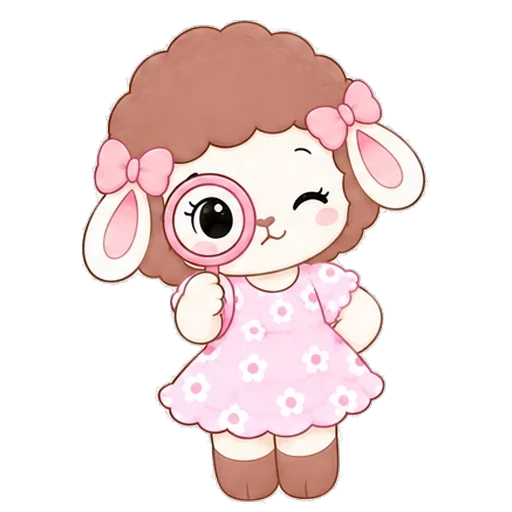
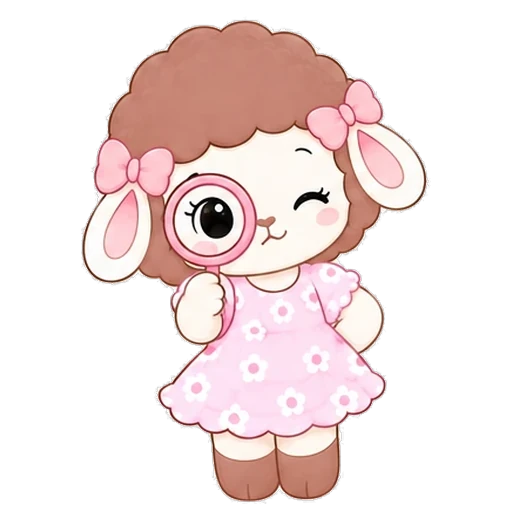
Cuento: poses de Rosina corregidas (diploma, idea, fin de misión 1), equipo parejo, lana ideal con ovillo, espacio para el botón de música (#320)
Claude-Session: https://claude.ai/code/session_01U9SAsfVct6L94yoocG63si

diff --git a/aventuras-de-rosina/js/dibujos.js b/aventuras-de-rosina/js/dibujos.js
@@ -3,7 +3,7 @@
 // Rosina NO se dibuja aquí: usa las imágenes oficiales de /img/stickers/; los amigos, las poses de /img/aventuras/plano/ (ver personajes.js).
 // Para reemplazar un dibujo por una imagen o un video final, ver herramientas/aventuras-de-rosina/LEEME.md (sección "Cambiar dibujos por fotos o videos").
 
-import { POSES_PLANO } from '../contenido/personajes.js?v=11';
+import { POSES_PLANO } from '../contenido/personajes.js?v=16';
 
 const HA = '#cc1786';   // hilo, borde (fucsia de marca)
 const HB = '#ff66c4';   // hilo, relleno (rosa de marca)
@@ -143,14 +143,11 @@ const PINTORES = {
     ${texto(176, 160, 'jala por los 2 bucles', 15, 'start')}${flecha('M170,152 L126,116')}
     ${texto(160, 44, 'queda 1 bucle', 15)}`),
 
-  // Tres ovillos con la imagen real del ovillo: gruesa y clara (la ideal), fina y oscura, y peluda que esconde las puntadas.
+  // Solo la lana ideal (gruesa y clara) usa la imagen del ovillo; la fina y la peluda conservan su dibujo.
   muestraLana: (p) => {
-    const f = (id, m) => `<defs><filter id="${id}" color-interpolation-filters="sRGB"><feColorMatrix type="matrix" values="${m}"/></filter></defs>`;
-    const tinta = (id, nombre, x, y, w, h) => `<image href="${IMP}${nombre}.webp" x="${x}" y="${y}" width="${w}" height="${h}" preserveAspectRatio="xMidYMid meet" filter="url(#${id})"/>`;
     if (p.variante === 'gruesa') return svg(`${imagen('ovillo', 28, 12, 150, 164)}${hilo('M158,150 C196,176 224,120 262,146', 13, HA, '#FFC6E2')}`, '0 0 300 200');
-    if (p.variante === 'fina') return svg(`${f('lf', '.22 .22 .22 0 0  .2 .2 .2 0 0  .22 .22 .24 0 .03  0 0 0 1 0')}${tinta('lf', 'ovillo', 52, 46, 104, 114)}${hilo('M150,140 C176,128 192,160 220,144 S250,136 276,146', 2.5, '#2b2430', '#5b4a60')}`, '0 0 300 200');
-    const pelos = Array.from({ length: 44 }, (_, i) => { const a = (i / 44) * Math.PI * 2, rx = 52, ry = 58; return `<path d="M${100 + Math.cos(a) * rx},${100 + Math.sin(a) * ry} l${Math.cos(a) * 15},${Math.sin(a) * 15}" stroke="#b9779d" stroke-width="3" stroke-linecap="round"/>`; }).join('');
-    return svg(`${f('lp', '.85 .1 .1 0 0  .1 .6 .2 0 0  .3 .2 .8 0 0  0 0 0 1 0')}${pelos}${tinta('lp', 'ovillo', 38, 28, 124, 136)}${hilo('M164,144 C192,128 212,164 242,144 S266,134 286,146', 12, '#b86f97', '#e29ac0')}`, '0 0 300 200');
+    if (p.variante === 'fina') return svg(`<circle cx="100" cy="100" r="40" fill="#4a3a4f" stroke="#2b2430" stroke-width="3"/>${[0, 1, 2, 3, 4, 5].map((i) => `<path d="M${64 + i * 4},${84 + i * 8} q36,-14 ${72 - i * 8},2" fill="none" stroke="#7d6a82" stroke-width="1.5"/>`).join('')}${hilo('M140,124 C170,108 190,150 220,128 S250,118 276,130', 2.5, '#2b2430', '#5b4a60')}`, '0 0 300 200');
+    return svg(`<circle cx="100" cy="100" r="50" fill="#e29ac0" stroke="#b86f97" stroke-width="3"/>${Array.from({ length: 36 }, (_, i) => { const a = (i / 36) * Math.PI * 2; return `<path d="M${100 + Math.cos(a) * 46},${100 + Math.sin(a) * 46} l${Math.cos(a) * 16},${Math.sin(a) * 16}" stroke="#b86f97" stroke-width="3" stroke-linecap="round"/>`; }).join('')}${hilo('M156,128 C186,112 206,150 236,128 S262,118 282,130', 12, '#b86f97', '#e29ac0')}`, '0 0 300 200');
   },
 
   nudoSolo: () => svg(`${hilo('M70,120 C90,40 170,50 150,110 C130,170 60,130 120,80 C180,30 250,90 200,130 C160,160 120,130 160,100', 7)}${hilo('M60,150 C30,170 40,190 80,186 M200,140 C240,160 270,150 280,176', 7)}`),

diff --git a/aventuras-de-rosina/js/app.js b/aventuras-de-rosina/js/app.js
@@ -3,14 +3,14 @@
 // Privacidad: no hay cuentas, ni cookies, ni analítica, ni peticiones a servidores. Todo vive en este navegador (ver estado.js).
 // Para cambiar textos o añadir capítulos NO hay que tocar este archivo: ver contenido/misiones.js y herramientas/aventuras-de-rosina/LEEME.md.
 
-import { MISIONES, FUTUROS, LOGROS } from '../contenido/misiones.js?v=11';
-import { PERSONAJES, POSES_ROSINA, AMIGOS, PALETA } from '../contenido/personajes.js?v=11';
-import { personaje, dibujo, mapaFondo } from './dibujos.js?v=11';
-import { jugar, miniBosque } from './juegos.js?v=11';
-import * as E from './estado.js?v=11';
-import * as voz from './voz.js?v=11';
-import * as musica from './musica.js?v=11';
-import { pers, sinNombre } from './nombre.js?v=11';
+import { MISIONES, FUTUROS, LOGROS } from '../contenido/misiones.js?v=16';
+import { PERSONAJES, POSES_ROSINA, AMIGOS, PALETA } from '../contenido/personajes.js?v=16';
+import { personaje, dibujo, mapaFondo } from './dibujos.js?v=16';
+import { jugar, miniBosque } from './juegos.js?v=16';
+import * as E from './estado.js?v=16';
+import * as voz from './voz.js?v=16';
+import * as musica from './musica.js?v=16';
+import { pers, sinNombre } from './nombre.js?v=16';
 
 // Título del libro (Libro 1 de «Rosina y el Bosque Tejido», que es el nombre del mundo y del mapa).
 const TITULO_LIBRO = 'Rosina y la gran aventura de la primera cadeneta';
@@ -76,10 +76,10 @@ const botonVoz = () => (vozListo ? '<button type="button" class="btn-voz" data-a
 const fig = (def, alt) => `<figure class="paso-fig"><div class="paso-dib">${dibujo(def)}</div><figcaption class="paso-alt">${esc(alt)} <span class="provisional">Dibujo de ayuda (provisional)</span></figcaption></figure>`;
 // Rosina en las escenas del libro: los stickers oficiales (varias poses). alt '' la marca como decorativa.
 const ALT_ROSINA = {
-  saludo: 'Rosina, la ovejita guía de Lana Rosa, saluda con la patita.', feliz: 'Rosina sonríe feliz.', idea: 'Rosina tiene una idea.',
+  saludo: 'Rosina, la ovejita guía de Lana Rosa, saluda con la patita.', feliz: 'Rosina sonríe feliz.', idea: 'Rosina mira con una lupa.',
   leyendo: 'Rosina lee un libro rosado.', corazon: 'Rosina sonríe con un corazón rosado.', sentada: 'Rosina sentada abraza un ovillo en forma de corazón.',
   cartel: 'Rosina asoma detrás de un cartel rosado.', animo: 'Rosina levanta el pulgar para animarte.', abrazo: 'Rosina abraza un ovillo en forma de corazón.',
-  ovillo: 'Rosina sostiene un ovillo en forma de corazón.', saludoSentada: 'Rosina, sentada, saluda con la patita.', flor: 'Rosina sostiene una flor.', gorro: 'Rosina lleva un gorro rosado.',
+  ovillo: 'Rosina sostiene un ovillo en forma de corazón.', saludoSentada: 'Rosina señala con la patita.', flor: 'Rosina sostiene una flor.', gorro: 'Rosina lleva un gorro rosado.',
   tejiendo: 'Rosina teje una cadeneta con su gancho y lana rosada.', gancho: 'Rosina muestra su gancho de crochet y un ovillo de lana.',
   contando: 'Rosina cuenta con los dedos.', senalando: 'Rosina señala hacia un lado.', fuerza: 'Rosina levanta los puños para darte ánimo.',
   sorpresa: 'Rosina se sorprende con las manos en las mejillas.', consuelo: 'Rosina te consuela con una sonrisa suave.',

diff --git a/aventuras-de-rosina/contenido/personajes.js b/aventuras-de-rosina/contenido/personajes.js
@@ -9,14 +9,14 @@ export const POSES_ROSINA = {
   ovillo: '/img/aventuras/rosina-plana/rosina-03-ovillo-corazon.webp',
   flor: '/img/aventuras/rosina-plana/rosina-04-flor.webp',
   sentada: '/img/aventuras/rosina-plana/rosina-05-ovillo-sentada.webp',
-  idea: '/img/aventuras/rosina-plana/rosina-06-idea.webp',
+  idea: '/img/aventuras/rosina-plana/lupa.webp',
   leyendo: '/img/aventuras/rosina-plana/rosina-07-leyendo.webp',
-  feliz: '/img/aventuras/rosina-plana/rosina-08-feliz.webp',
+  feliz: '/img/aventuras/rosina-plana/rosina-02-corazon.webp',
   cartel: '/img/aventuras/rosina-plana/rosina-09-cartel.webp',
   animo: '/img/aventuras/rosina-plana/rosina-12-pulgar-arriba.webp',
   gorro: '/img/aventuras/rosina-plana/rosina-17-gorro.webp',
   abrazo: '/img/aventuras/rosina-plana/rosina-18-ovillo-abrazo.webp',
-  saludoSentada: '/img/aventuras/rosina-plana/rosina-20-sentada-saludo.webp',
+  saludoSentada: '/img/aventuras/rosina-plana/senalando.webp',
   // Poses NUEVAS para el libro (hoja de Sara del 12-oct-2026, con el mismo borde de sticker; las crea preparar_rosina_poses.py)
   tejiendo: '/img/aventuras/rosina-plana/tejiendo.webp', gancho: '/img/aventuras/rosina-plana/gancho.webp', contando: '/img/aventuras/rosina-plana/contando.webp',
   senalando: '/img/aventuras/rosina-plana/senalando.webp', fuerza: '/img/aventuras/rosina-plana/fuerza.webp', sorpresa: '/img/aventuras/rosina-plana/sorpresa.webp',

diff --git a/aventuras-de-rosina/aventura.css b/aventuras-de-rosina/aventura.css
@@ -372,3 +372,10 @@ h1[tabindex="-1"]:focus, h2[tabindex="-1"]:focus, main:focus { outline: none; }
 /* Rosina al mismo tamaño que sus amigos en las historias (su imagen cuadrada tiene aire a los lados) */
 .historia-arte { display: flex; justify-content: center; overflow: hidden; }
 .historia-arte .sticker-r.rosina-img { flex: none; width: 450px; max-width: none; margin: 0 -50px 0; }
+
+/* El equipo (Rosina y sus cuatro amigos) va en grupo: todos del mismo tamaño y a la vista */
+.historia-arte .equipo .pj, .historia-arte .equipo .sticker-r { width: 100%; max-width: 150px; height: 160px; max-height: none; object-fit: contain; margin: 0 auto 4px; }
+@media (min-width: 700px) { .historia-arte .equipo .pj, .historia-arte .equipo .sticker-r { max-width: 170px; height: 175px; } }
+/* Espacio para que el botón de música no tape el final de la página */
+.pantalla { padding-bottom: 88px; }
+.historia-arte .equipo .sticker-r { object-fit: cover; }

diff --git a/aventuras-de-rosina/js/juegos.js b/aventuras-de-rosina/js/juegos.js
@@ -3,9 +3,9 @@
 // Reglas de diseño: sin tiempo, sin vidas, sin puntaje que compare ni sonidos. Un error siempre recibe una pista amable y se puede
 // reintentar sin límite; tras dos errores se ofrece ver la respuesta y seguir, para que un juego nunca bloquee a nadie.
 
-import { dibujo } from './dibujos.js?v=11';
-import { conNombre } from './nombre.js?v=11';
-import { PALETA, POSES_ROSINA } from '../contenido/personajes.js?v=11';
+import { dibujo } from './dibujos.js?v=16';
+import { conNombre } from './nombre.js?v=16';
+import { PALETA, POSES_ROSINA } from '../contenido/personajes.js?v=16';
 
 const esc = (s) => String(s == null ? '' : s).replace(/[&<>"']/g, (c) => ({ '&': '&amp;', '<': '&lt;', '>': '&gt;', '"': '&quot;', "'": '&#39;' }[c]));
 

diff --git a/aventuras-de-rosina/index.html b/aventuras-de-rosina/index.html
@@ -17,7 +17,7 @@
 <!-- Producto infantil: a propósito NO lleva Google Tag Manager, aviso de cookies, cuentas, carrito ni scripts de terceros.
      Solo usa las fuentes y las imágenes del propio sitio. -->
 <link rel="stylesheet" href="/css/fuentes.css">
-<link rel="stylesheet" href="/aventuras-de-rosina/aventura.css?v=11">
+<link rel="stylesheet" href="/aventuras-de-rosina/aventura.css?v=16">
 </head>
 <body>
 <a class="saltar" href="#app">Saltar al contenido</a>
@@ -61,6 +61,6 @@
   </div>
 </dialog>
 
-<script type="module" src="/aventuras-de-rosina/js/app.js?v=11"></script>
+<script type="module" src="/aventuras-de-rosina/js/app.js?v=16"></script>
 </body>
 </html>

diff --git a/aventuras-de-rosina/contenido/misiones.js b/aventuras-de-rosina/contenido/misiones.js
@@ -134,7 +134,7 @@ export const MISIONES = [
       ],
       respuesta: 'Todas son maneras valientes de aprender. Pedir ayuda también es una forma de ser creativo.',
     },
-    fin: { texto: '¡Misión cumplida, {nombre}! Ya tienes tu mapa, tu mochila y tu pasaporte. El Bosque Tejido empieza a recuperar sus colores.', pose: 'feliz' },
+    fin: { texto: '¡Misión cumplida, {nombre}! Ya tienes tu mapa, tu mochila y tu pasaporte. El Bosque Tejido empieza a recuperar sus colores.', pose: 'mapa' },
   },
 
   {

diff --git a/herramientas/aventuras-de-rosina/recortar_rosina_hoja.py b/herramientas/aventuras-de-rosina/recortar_rosina_hoja.py
@@ -47,12 +47,26 @@ def recortar(sub):
     return lienzo
 
 
+def cortes(a, fila):
+    """Afina los cortes entre poses: en cada fila busca, cerca del corte medido, la franja con menos dibujo (así no se recortan orejas ni manos)."""
+    sub = a[FILAS[fila]:FILAS[fila + 1]].min(axis=2)
+    oscuro = (sub < 245).sum(axis=0).astype(float)
+    res = [0]
+    for c in COLUMNAS[1:-1]:
+        ventana = range(max(res[-1] + 100, c - 60), min(len(oscuro) - 100, c + 60))
+        suave = np.convolve(oscuro, np.ones(9) / 9, mode='same')
+        res.append(min(ventana, key=lambda x: suave[x]))
+    res.append(len(oscuro))
+    return res
+
+
 def main():
     os.makedirs(DESTINO, exist_ok=True)
     a = np.array(Image.open(HOJA).convert('RGB'))
     for f, fila in enumerate(NOMBRES):
+        cs = cortes(a, f)
         for c, nombre in enumerate(fila):
-            sub = a[FILAS[f]:FILAS[f + 1], COLUMNAS[c]:COLUMNAS[c + 1]]
+            sub = a[FILAS[f]:FILAS[f + 1], cs[c]:cs[c + 1]]
             recortar(sub).save(os.path.join(DESTINO, nombre + '.webp'), quality=90, method=6)
             print('ok', nombre)
 
